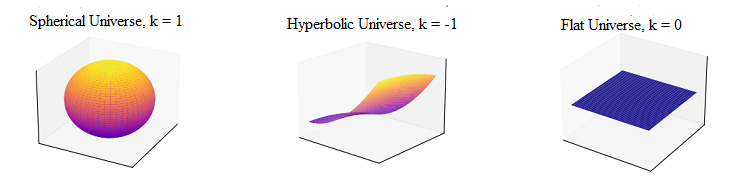
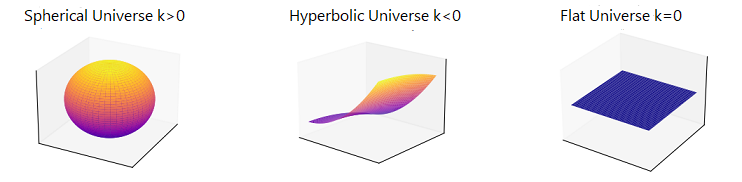
Update

Changed region(s): [[0.372, 0.0549, 0.6199, 0.1923], [0.031, 0.0549, 0.248, 0.1648], [0.7439, 0.0549, 0.9299, 0.1648]]

diff --git a/_codes/cosmo/friedmann.md b/_codes/cosmo/friedmann.md
@@ -245,7 +245,7 @@ In this model, $a(t)$ increases so rapidly that no event can have an impact on a
 
 ### Spheric Universe :
 
-Until the mid-1990s, we  were considering the hypothesis of the Big Crunch, which wondered if there was enough matter in the Universe to stop its expansion and cause it to contract again. In the case where $\Omega_k < 0$, the spatial curvature is $k=+1$, we're in a hyperbolic space. Depending on parameters, we may observe a crunch of the Universe in the distant future. Friedmann's equation is thus slightly different, as the term under the square root becomes negative. We have to configure our program differently to avoid errors. Therefore, we have : 
+Until the mid-1990s, we  were considering the hypothesis of the Big Crunch, which wondered if there was enough matter in the Universe to stop its expansion and cause it to contract again. In the case where $\Omega_k < 0$, the spatial curvature is $k>1$, we're in a spheric space. Depending on parameters, we may observe a crunch of the Universe in the distant future. Friedmann's equation is thus slightly different, as the term under the square root becomes negative. We have to configure our program differently to avoid errors. Therefore, we have : 
 
 
 <a name="fig7"></a>
